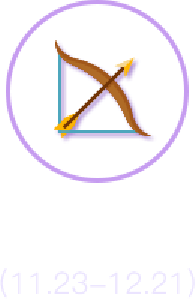
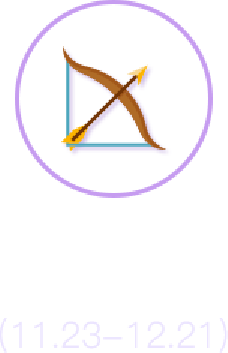
细节整改

Changed region(s): [[0.0308, 0.0, 0.9846, 0.6321]]

diff --git a/src/pages/personInfo/page.css b/src/pages/personInfo/page.css
@@ -29,7 +29,8 @@
 /*星座选择*/
 .astroItem{
   width:100%;
-  height:200%;
+  height: 100%;
+  position: fixed;
   padding-top: 10px;
   background:#9b52e2;
 }
@@ -224,7 +225,8 @@
 
 .qrcode{
   width: 100%;
-  height: 150%;
+  height: 100%;
+  position: fixed;
   background-color: #333333;
   display: flex;
   flex-direction: column;
@@ -288,7 +290,8 @@
 /*我的黄金票*/
 .golden_ticket_container{
   width:100%;
-  height:200%;
+  height: 100%;
+  position: fixed;
   background: linear-gradient(#f5a68f,#d32b44);
 }
 .golden_ticket_title{
@@ -332,7 +335,8 @@
 /*喜腾抢购*/
 .rush_topurchase_container{
   width:100%;
-  height:200%;
+  height: 100%;
+  position: fixed;
   display: flex;
   flex-direction: column;
   align-items: center;

diff --git a/src/pages/personInfo/page.js b/src/pages/personInfo/page.js
@@ -48,9 +48,9 @@ function PersonalInformation(props) {
             <Item arrow="horizontal" onClick={() => {
               props.dispatch(routerRedux.push('/personInfo/goldenTicket'));
             }}>我的黄金票</Item>
-            <Item arrow="horizontal" onClick={() => {
-              props.dispatch(routerRedux.push('/personInfo/rushTopurchase'));
-            }}>抢购</Item>
+            {/*<Item arrow="horizontal" onClick={() => {*/}
+              {/*props.dispatch(routerRedux.push('/personInfo/rushTopurchase'));*/}
+            {/*}}>抢购</Item>*/}
           </List>
           <div style={{ marginTop: '60px' }}></div>
           <Picker

diff --git a/src/pages/astro/page.css b/src/pages/astro/page.css
@@ -29,7 +29,8 @@
 /*星座选择*/
 .astroItem{
   width:100%;
-  height:150%;
+  height:100%;
+  position:fixed;
   padding-top: 10px;
   background:#9b52e2;
 }
